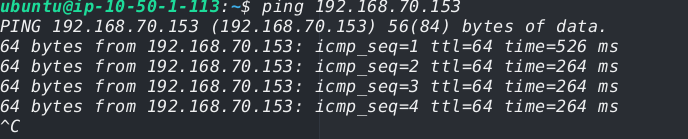
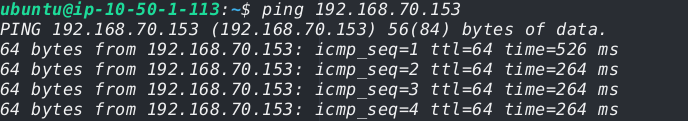
docs: re-crop ping screenshots so the prompt and command are visible

Changed region(s): [[0.0, 0.0, 0.9157, 0.843], [0.4578, 0.843, 0.9157, 0.9917], [0.0, 0.843, 0.4273, 0.9669]]

diff --git a/docs/05-packet-flows-and-testing.md b/docs/05-packet-flows-and-testing.md
@@ -112,10 +112,10 @@ Reaching a **second machine inside the VPC** (not just the router). Expect to ne
 security-group rules on that machine, and probably a masquerade on the AWS router for VPC-to-lab traffic. These are expectations, not results.
 
 ![Terminal showing five ping replies from the AWS router private address](images/05-ping-lab-to-aws.png)
-*Lab VM → AWS router after the NAT rule: 5 of 5 replies.*
+*Run on the lab VM (prompt `monitor@monitor`) after the NAT rule: 5 of 5 replies from the AWS router.*
 
 ![Terminal showing ping replies from a lab VM](images/05-ping-aws-to-lab.png)
-*AWS router → lab VM: replies, as before.*
+*Run on the AWS router (prompt `ubuntu@ip-10-50-1-113`): replies from the lab VM.*
 
 ## Summary: what you learned
 - Test both directions. Pinging the router proves the tunnel, not forwarding.
